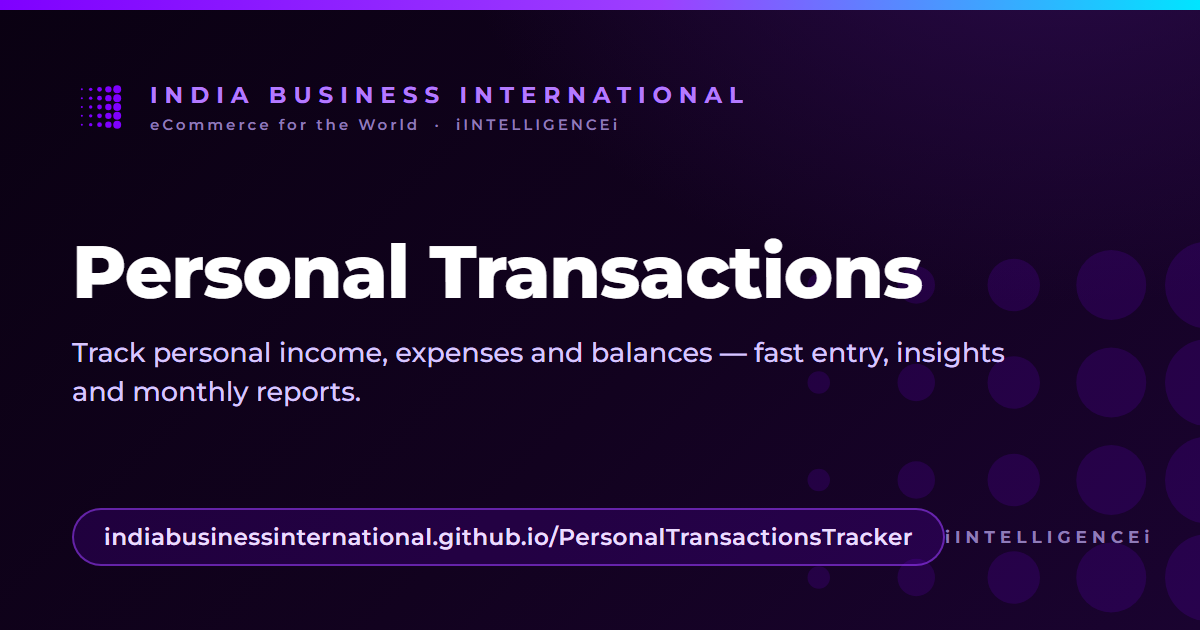
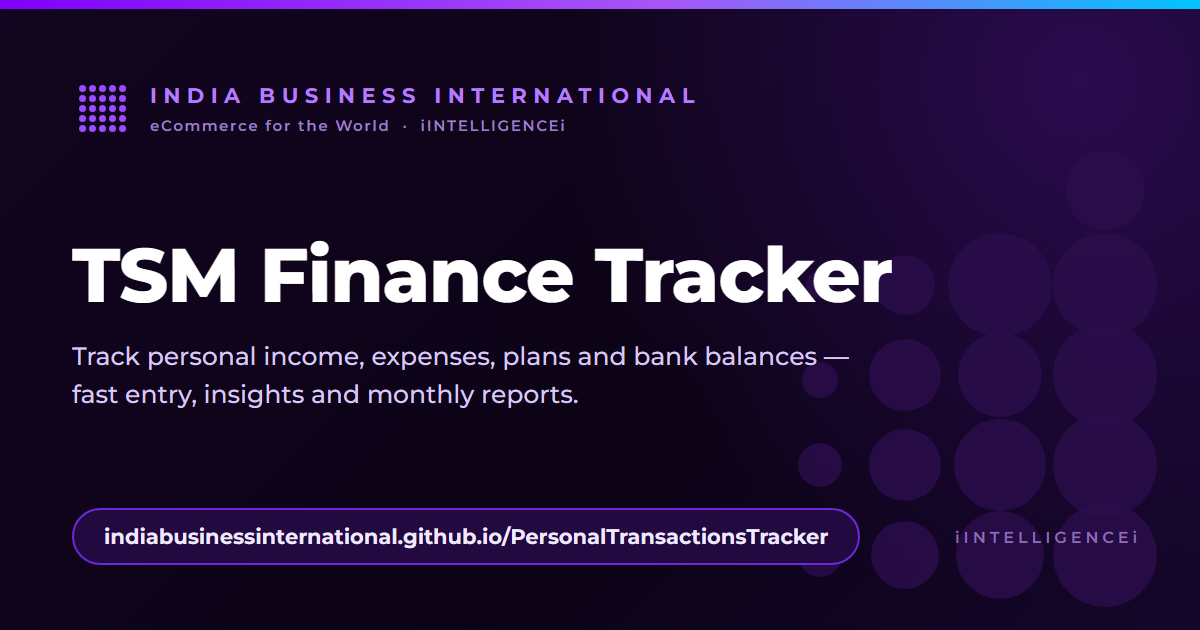
v6.14 — renamed TSM Finance Tracker
Display name only: title, top bar, footer, print/CSV headers, manifest
name + short_name, OG/Twitter tags, a redrawn og-banner.png, GAS ping.
Address, repo and PersonalTransactions_ file names unchanged.

diff --git a/PersonalTransactions_index.html b/PersonalTransactions_index.html
@@ -7,21 +7,21 @@
 <meta name="apple-mobile-web-app-capable" content="yes">
 <meta name="apple-mobile-web-app-status-bar-style" content="black">
 <meta name="apple-mobile-web-app-title" content="Txn Tracker">
-<meta name="description" content="TSM Personal Transactions Tracker by Dr. T. Sasimurugan">
-<title>TSM Personal Transactions Tracker</title>
+<meta name="description" content="TSM Finance Tracker by Dr. T. Sasimurugan">
+<title>TSM Finance Tracker</title>
 <!-- Open Graph / social sharing -->
 <meta property="og:type" content="website">
 <meta property="og:site_name" content="India Business International">
-<meta property="og:title" content="TSM Personal Transactions Tracker">
+<meta property="og:title" content="TSM Finance Tracker">
 <meta property="og:description" content="Track personal income, expenses and balances — fast entry, credit ledger and a full financial analysis pack.">
 <meta property="og:url" content="https://indiabusinessinternational.github.io/PersonalTransactionsTracker/">
 <meta property="og:image" content="https://indiabusinessinternational.github.io/PersonalTransactionsTracker/og-banner.png">
 <meta property="og:image:width" content="1200">
 <meta property="og:image:height" content="630">
-<meta property="og:image:alt" content="TSM Personal Transactions Tracker — India Business International">
+<meta property="og:image:alt" content="TSM Finance Tracker — India Business International">
 <!-- Twitter Card -->
 <meta name="twitter:card" content="summary_large_image">
-<meta name="twitter:title" content="TSM Personal Transactions Tracker">
+<meta name="twitter:title" content="TSM Finance Tracker">
 <meta name="twitter:description" content="Track personal income, expenses and balances — fast entry, credit ledger and a full financial analysis pack.">
 <meta name="twitter:image" content="https://indiabusinessinternational.github.io/PersonalTransactionsTracker/og-banner.png">
 <link rel="manifest" href="manifest.json">
@@ -794,11 +794,11 @@ tbody tr.tx-row{cursor:pointer}
       <div class="tsm-logo"><span>TSM</span></div>
       <!-- The mark to the left already says TSM, so the title beside it does not
            repeat it — that only cost room and pushed the name into an ellipsis.
-           The full "TSM Personal Transactions Tracker" still stands wherever the
+           The full "TSM Finance Tracker" still stands wherever the
            app is named on its own: the tab title, the manifest, the footer, the
            printed report and the social card. -->
       <div class="topbar-title">
-        <div class="app-name"><span class="app-name-text">Personal Transactions Tracker</span><span class="ver-badge">v6.13</span></div>
+        <div class="app-name"><span class="app-name-text">Finance Tracker</span><span class="ver-badge">v6.14</span></div>
       </div>
     </div>
     <div class="topbar-right">
@@ -1141,7 +1141,7 @@ tbody tr.tx-row{cursor:pointer}
   <div id="bankBalList" class="cm-list"></div>
 </div><!-- /viewBal -->
 
-  <div class="footer">TSM Personal Transactions Tracker v6.13 &mdash; Dr. T. Sasimurugan &mdash; indiabusinessinternational@gmail.com</div>
+  <div class="footer">TSM Finance Tracker v6.14 &mdash; Dr. T. Sasimurugan &mdash; indiabusinessinternational@gmail.com</div>
 </div>
 
 <!-- DRAWER MENU -->
@@ -1192,7 +1192,7 @@ tbody tr.tx-row{cursor:pointer}
   <!-- app and backend carry the SAME version number (CEO, 7 Sep 2026, "for easy
        noting"). Both are shown here; a bare number mismatch is only a note, a
        missing feature is what raises the amber prompts. -->
-  <div class="drawer-item" style="cursor:default;color:var(--text2);font-size:12px;align-items:flex-start"><i class="ti ti-info-circle"></i> <span id="aboutVer">App v6.13 · Backend: not connected yet</span></div>
+  <div class="drawer-item" style="cursor:default;color:var(--text2);font-size:12px;align-items:flex-start"><i class="ti ti-info-circle"></i> <span id="aboutVer">App v6.14 · Backend: not connected yet</span></div>
 </div>
 
 <!-- REPORT MODAL -->
@@ -5323,7 +5323,7 @@ function printReport(){
     @media print{ body{margin:11mm} }
   </style></head><body>
     <div class="head">
-      <div><h1>TSM Personal Transactions Tracker</h1><h2>Financial Analysis Report</h2><div class="muted">Dr. T. Sasimurugan — India Business International</div></div>
+      <div><h1>TSM Finance Tracker</h1><h2>Financial Analysis Report</h2><div class="muted">Dr. T. Sasimurugan — India Business International</div></div>
       <div style="text-align:right"><div style="font-size:16px;font-weight:700">${esc(A.p.label)}</div>
         <div class="muted">${fmtDate(A.p.from)} → ${fmtDate(A.p.to)} · ${A.days} day(s)</div>
         <div class="muted">${A.rows.length} transaction(s)${repFilterText()?' · filters: '+esc(repFilterText()):''}</div></div>
@@ -5360,7 +5360,7 @@ function printReport(){
     <div class="sec">${block(A.expenses,'Expenditure — full listing (paid on the spot + taken on credit)',RED)}</div>
     ${A.settles.length?`<div class="sec">${block(A.settles,'Settlements — full listing (clearing earlier credit; not counted as spend again)',CY)}</div>`:''}
     <div class="sec">${qTbl}</div>
-    <div class="foot"><span>Generated ${esc(genAt)} IST — TSM Personal Transactions Tracker v6.13</span><span>indiabusinessinternational@gmail.com</span></div>
+    <div class="foot"><span>Generated ${esc(genAt)} IST — TSM Finance Tracker v6.14</span><span>indiabusinessinternational@gmail.com</span></div>
   </body></html>`;
   const win=window.open('','_blank');
   if(!win){ showToast('Allow pop-ups to print, or use Download CSV','error'); return; }
@@ -5394,7 +5394,7 @@ function downloadReportCSV(){
   if(!lastReport){ showToast('Generate a report first','error'); return; }
   const {A,C}=lastReport;
   const rows=[
-    ['TSM Personal Transactions Tracker — Financial Analysis Report'],
+    ['TSM Finance Tracker — Financial Analysis Report'],
     ['Period', A.p.label],
     ['From', A.p.from, 'To', A.p.to, 'Days', A.days],
     ['Filters', repFilterText()||'none'],

diff --git a/index.html b/index.html
@@ -7,21 +7,21 @@
 <meta name="apple-mobile-web-app-capable" content="yes">
 <meta name="apple-mobile-web-app-status-bar-style" content="black">
 <meta name="apple-mobile-web-app-title" content="Txn Tracker">
-<meta name="description" content="TSM Personal Transactions Tracker by Dr. T. Sasimurugan">
-<title>TSM Personal Transactions Tracker</title>
+<meta name="description" content="TSM Finance Tracker by Dr. T. Sasimurugan">
+<title>TSM Finance Tracker</title>
 <!-- Open Graph / social sharing -->
 <meta property="og:type" content="website">
 <meta property="og:site_name" content="India Business International">
-<meta property="og:title" content="TSM Personal Transactions Tracker">
+<meta property="og:title" content="TSM Finance Tracker">
 <meta property="og:description" content="Track personal income, expenses and balances — fast entry, credit ledger and a full financial analysis pack.">
 <meta property="og:url" content="https://indiabusinessinternational.github.io/PersonalTransactionsTracker/">
 <meta property="og:image" content="https://indiabusinessinternational.github.io/PersonalTransactionsTracker/og-banner.png">
 <meta property="og:image:width" content="1200">
 <meta property="og:image:height" content="630">
-<meta property="og:image:alt" content="TSM Personal Transactions Tracker — India Business International">
+<meta property="og:image:alt" content="TSM Finance Tracker — India Business International">
 <!-- Twitter Card -->
 <meta name="twitter:card" content="summary_large_image">
-<meta name="twitter:title" content="TSM Personal Transactions Tracker">
+<meta name="twitter:title" content="TSM Finance Tracker">
 <meta name="twitter:description" content="Track personal income, expenses and balances — fast entry, credit ledger and a full financial analysis pack.">
 <meta name="twitter:image" content="https://indiabusinessinternational.github.io/PersonalTransactionsTracker/og-banner.png">
 <link rel="manifest" href="manifest.json">
@@ -794,11 +794,11 @@ tbody tr.tx-row{cursor:pointer}
       <div class="tsm-logo"><span>TSM</span></div>
       <!-- The mark to the left already says TSM, so the title beside it does not
            repeat it — that only cost room and pushed the name into an ellipsis.
-           The full "TSM Personal Transactions Tracker" still stands wherever the
+           The full "TSM Finance Tracker" still stands wherever the
            app is named on its own: the tab title, the manifest, the footer, the
            printed report and the social card. -->
       <div class="topbar-title">
-        <div class="app-name"><span class="app-name-text">Personal Transactions Tracker</span><span class="ver-badge">v6.13</span></div>
+        <div class="app-name"><span class="app-name-text">Finance Tracker</span><span class="ver-badge">v6.14</span></div>
       </div>
     </div>
     <div class="topbar-right">
@@ -1141,7 +1141,7 @@ tbody tr.tx-row{cursor:pointer}
   <div id="bankBalList" class="cm-list"></div>
 </div><!-- /viewBal -->
 
-  <div class="footer">TSM Personal Transactions Tracker v6.13 &mdash; Dr. T. Sasimurugan &mdash; indiabusinessinternational@gmail.com</div>
+  <div class="footer">TSM Finance Tracker v6.14 &mdash; Dr. T. Sasimurugan &mdash; indiabusinessinternational@gmail.com</div>
 </div>
 
 <!-- DRAWER MENU -->
@@ -1192,7 +1192,7 @@ tbody tr.tx-row{cursor:pointer}
   <!-- app and backend carry the SAME version number (CEO, 7 Sep 2026, "for easy
        noting"). Both are shown here; a bare number mismatch is only a note, a
        missing feature is what raises the amber prompts. -->
-  <div class="drawer-item" style="cursor:default;color:var(--text2);font-size:12px;align-items:flex-start"><i class="ti ti-info-circle"></i> <span id="aboutVer">App v6.13 · Backend: not connected yet</span></div>
+  <div class="drawer-item" style="cursor:default;color:var(--text2);font-size:12px;align-items:flex-start"><i class="ti ti-info-circle"></i> <span id="aboutVer">App v6.14 · Backend: not connected yet</span></div>
 </div>
 
 <!-- REPORT MODAL -->
@@ -5323,7 +5323,7 @@ function printReport(){
     @media print{ body{margin:11mm} }
   </style></head><body>
     <div class="head">
-      <div><h1>TSM Personal Transactions Tracker</h1><h2>Financial Analysis Report</h2><div class="muted">Dr. T. Sasimurugan — India Business International</div></div>
+      <div><h1>TSM Finance Tracker</h1><h2>Financial Analysis Report</h2><div class="muted">Dr. T. Sasimurugan — India Business International</div></div>
       <div style="text-align:right"><div style="font-size:16px;font-weight:700">${esc(A.p.label)}</div>
         <div class="muted">${fmtDate(A.p.from)} → ${fmtDate(A.p.to)} · ${A.days} day(s)</div>
         <div class="muted">${A.rows.length} transaction(s)${repFilterText()?' · filters: '+esc(repFilterText()):''}</div></div>
@@ -5360,7 +5360,7 @@ function printReport(){
     <div class="sec">${block(A.expenses,'Expenditure — full listing (paid on the spot + taken on credit)',RED)}</div>
     ${A.settles.length?`<div class="sec">${block(A.settles,'Settlements — full listing (clearing earlier credit; not counted as spend again)',CY)}</div>`:''}
     <div class="sec">${qTbl}</div>
-    <div class="foot"><span>Generated ${esc(genAt)} IST — TSM Personal Transactions Tracker v6.13</span><span>indiabusinessinternational@gmail.com</span></div>
+    <div class="foot"><span>Generated ${esc(genAt)} IST — TSM Finance Tracker v6.14</span><span>indiabusinessinternational@gmail.com</span></div>
   </body></html>`;
   const win=window.open('','_blank');
   if(!win){ showToast('Allow pop-ups to print, or use Download CSV','error'); return; }
@@ -5394,7 +5394,7 @@ function downloadReportCSV(){
   if(!lastReport){ showToast('Generate a report first','error'); return; }
   const {A,C}=lastReport;
   const rows=[
-    ['TSM Personal Transactions Tracker — Financial Analysis Report'],
+    ['TSM Finance Tracker — Financial Analysis Report'],
     ['Period', A.p.label],
     ['From', A.p.from, 'To', A.p.to, 'Days', A.days],
     ['Filters', repFilterText()||'none'],

diff --git a/PersonalTransactions_sw.js b/PersonalTransactions_sw.js
@@ -1,4 +1,4 @@
-const CACHE = 'ptt-v6.13.0';
+const CACHE = 'ptt-v6.14.0';
 const ASSETS = ['./index.html', './manifest.json'];
 
 self.addEventListener('install', e => {

diff --git a/sw.js b/sw.js
@@ -1,4 +1,4 @@
-const CACHE = 'ptt-v6.13.0';
+const CACHE = 'ptt-v6.14.0';
 const ASSETS = ['./index.html', './manifest.json'];
 
 self.addEventListener('install', e => {

diff --git a/README.md b/README.md
@@ -1,4 +1,7 @@
-# TSM Personal Transactions Tracker v6.13
+# TSM Finance Tracker v6.14
+
+**Renamed (v6.14)** — the app is now called **TSM Finance Tracker** wherever a person reads it (title, top bar "Finance Tracker" beside the TSM mark, footer, print and CSV headers, install name "TSM Finance", link preview + a redrawn og-banner.png, GAS ping). The address, repo and PersonalTransactions_ file names are unchanged, so bookmarks and the installed app keep working.
+
 
 **Bank & Cash Balances (v6.13)** — a new **Balances** section (bottom bar on a phone) keeps each account's balance as a *reading*, never as a transaction: account, date, balance, note. Each account shows its latest reading, the change since the one before and its history; the section totals every account and flags one not updated for 30 days. Readings live in their own **Balances** sheet (date stored as text, read with getDisplayValues), so they never touch Income, Expenses or any report — no more ₹1 entries. *Review & move* finds the old ₹1 / ₹0 balance rows in the ledger, reads the figure out of the description, and moves the ticked ones into Balances (idempotent: each reading's ID is BL + the ledger row's ID). Typing a ₹1 balance into the ledger now offers to record it under Balances instead. Paste the Apps Script v6.13 for the server half.
 
